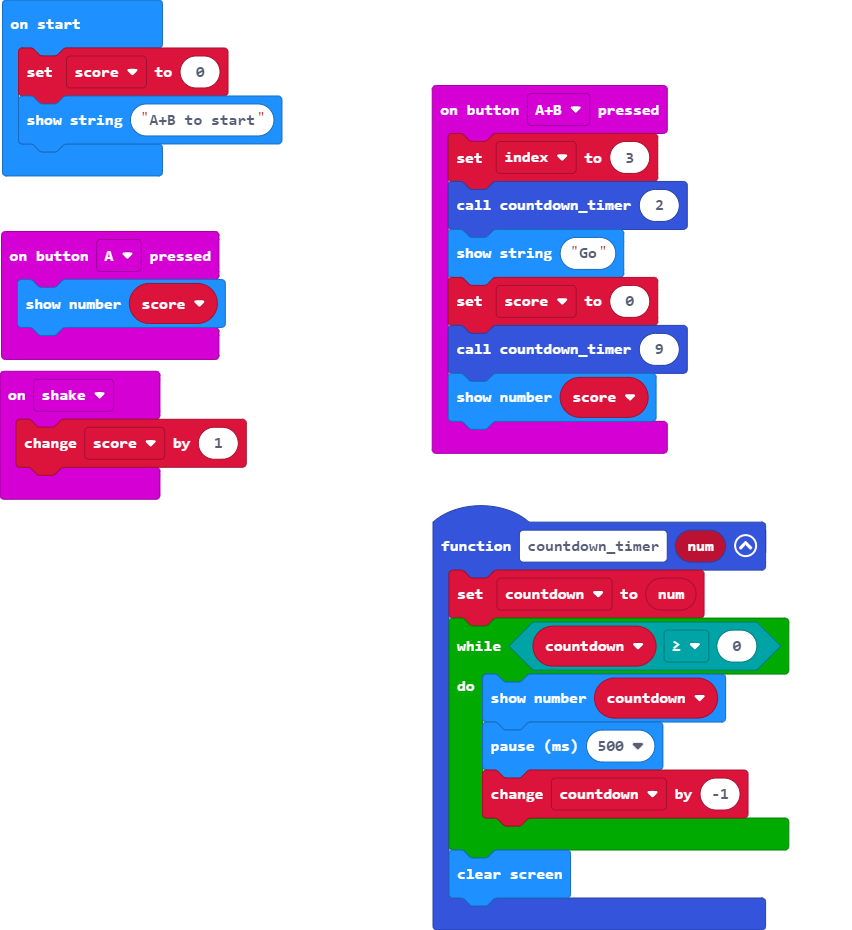
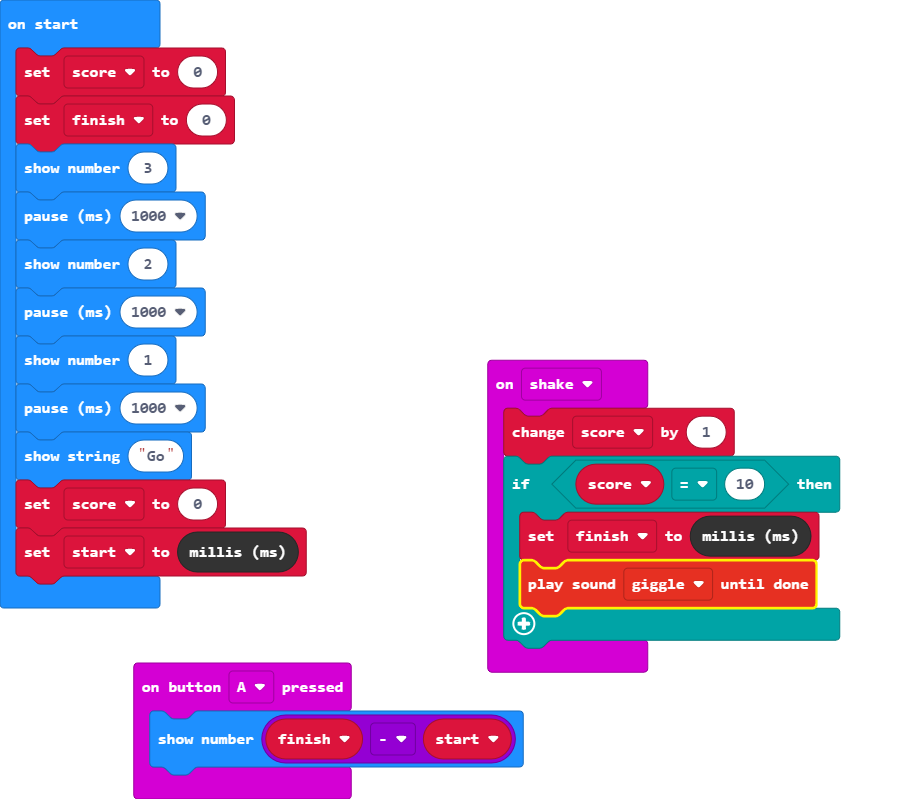
Update pxt.json, main.blocks, main.ts

diff --git a/main.ts b/main.ts
@@ -1,28 +1,24 @@
 input.onButtonPressed(Button.A, function () {
-    basic.showNumber(score)
-})
-input.onButtonPressed(Button.AB, function () {
-    index = 3
-    countdown_timer(2)
-    basic.showString("Go")
-    score = 0
-    countdown_timer(9)
-    basic.showNumber(score)
+    basic.showNumber(finish - start)
 })
 input.onGesture(Gesture.Shake, function () {
     score += 1
-})
-function countdown_timer (num: number) {
-    countdown = num
-    while (countdown >= 0) {
-        basic.showNumber(countdown)
-        basic.pause(500)
-        countdown += -1
+    if (score == 10) {
+        finish = control.millis()
+        soundExpression.giggle.playUntilDone()
     }
-    basic.clearScreen()
-}
-let countdown = 0
-let index = 0
+})
+let start = 0
+let finish = 0
 let score = 0
 score = 0
-basic.showString("A+B to start")
+finish = 0
+basic.showNumber(3)
+basic.pause(1000)
+basic.showNumber(2)
+basic.pause(1000)
+basic.showNumber(1)
+basic.pause(1000)
+basic.showString("Go")
+score = 0
+start = control.millis()
